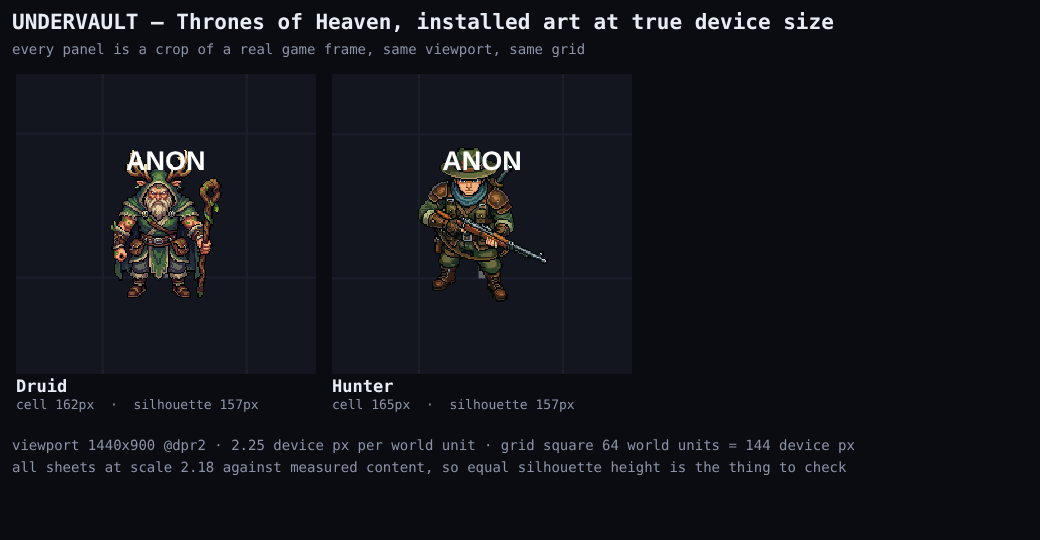
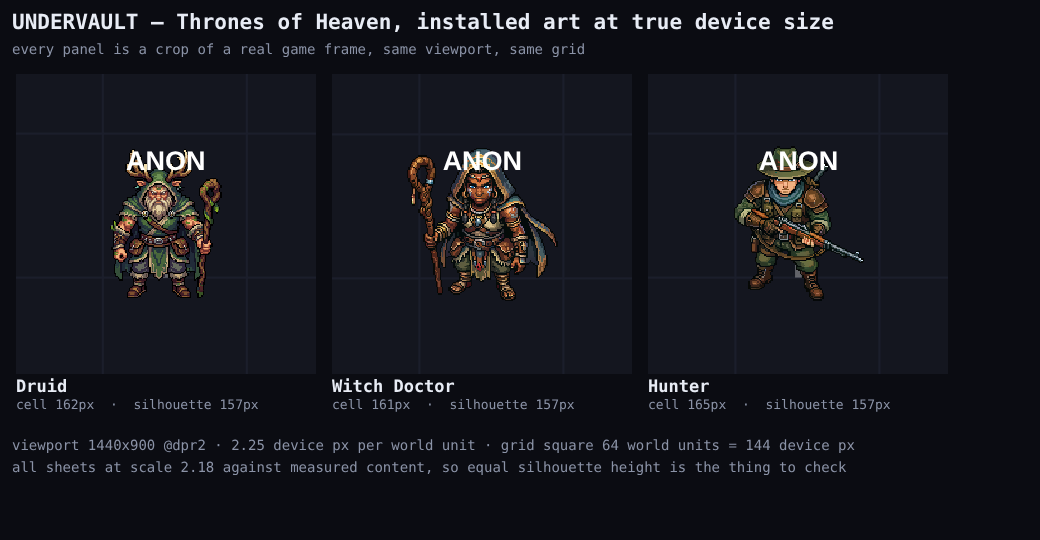
Witch Doctor installed at 2.18 — three characters, one silhouette height
Second of the 13. Eight 256x256 RGBA facings supplied 2026-08-04, committed
verbatim under docs/art-review/batch1/witch_doctor/sources/ at the md5s they
arrived with. Nothing regenerated, resampled or retouched.

  E  1c39421fd06ac441d0f2cec9a8251bc8    W  790afc13d1209968868b52dbd3aaed3b
  SE 200c92cf1c35c5098ee945c213398493    NW ff59d25da83767ea7414c4e4487a1746
  S  53231d21cc8318c1ea80a7ff6734569e    N  a41b4145a6c0d43fb3b32bbb90f0f9bf
  SW 2480a2f16e94c8b43c09cdd23e9f1f5a    NE a639384675c88a82c370cd9d7436224c

assets/sprites/char/toh_witch_doctor.png, 128x1024, directions 8,
content [120,125], scale 2.18. Autocrop 256x256 -> 120x127, no resampling.

SIZE. Measured off the renderer's own drawImage at 1440x900 @dpr2:

  character      scale  fit     content   cell px  silhouette px  vs Druid
  Druid (anchor) 2.18   1.0323  90x124     162.0       157.0        --
  Witch Doctor   2.18   1.0240  120x125    160.7       157.0      +0.00%
  Hunter         2.18   1.0492  101x122    164.7       157.0      -0.00%

Three different content boxes, cell fills from 95.3% to 97.7%, two different
source canvases. The CELLS span 160.7 to 164.7 device px — a 4px spread that
means nothing. The SILHOUETTES are identical to a tenth of a pixel.

PER-FACING SPREAD, worth watching per character. Normalisation uses the tallest
cell, so one unusually tall facing would render the other seven short:

  Druid         122 122 118 124 123 121 118 121   max 124 min 118  4.8%
[…]

diff --git a/docs/art-review/batch1/README.md b/docs/art-review/batch1/README.md
@@ -1,11 +1,12 @@
 # Batch 1 — Thrones of Heaven
 
-Thirteen characters to install. **One is in.**
+Thirteen characters to install. **Two are in.**
 
 | | character | id | status |
 |---|---|---|---|
 | ✓ | Hunter | `char.toh_hunter` | installed |
-| | Blacksmith · Wizard · Necromancer · Mage · Bard · Witch Doctor · Samurai · Monk · Assassin · Priest · Savage · Sundian | | awaiting art |
+| ✓ | Witch Doctor | `char.toh_witch_doctor` | installed |
+| | Blacksmith · Wizard · Necromancer · Mage · Bard · Samurai · Monk · Assassin · Priest · Savage · Sundian | | awaiting art (11) |
 
 The Druid (`char.toh_druid`) is the style anchor and is not part of batch 1 —
 see [`../druid/README.md`](../druid/README.md) and
@@ -24,17 +25,35 @@ artifact of padding.
 
 | character | scale | fit | content | cell px | silhouette px | vs Druid |
 |---|---|---|---|---|---|---|
-| Druid | 2.18 | 1.0323 | 90×124 | 162.0 | **157.0** | — |
-| Hunter | 2.18 | 1.0492 | 101×122 | 164.7 | **157.0** | **+0.00%** |
+| Druid (anchor) | 2.18 | 1.0323 | 90×124 | 162.0 | **157.0** | — |
+| Witch Doctor | 2.18 | 1.0240 | 120×125 | 160.7 | **157.0** | **+0.00%** |
+| Hunter | 2.18 | 1.0492 | 101×122 | 164.7 | **157.0** | **−0.00%** |
 
 Measured off the renderer's own `drawImage` in a real arena. Nothing is more
 than 5% off the Druid.
 
-The two sheets came from **different source canvases** — the Druid at 248×248,
-the Hunter at 256×256 — and fill different fractions of their cell (96.9% and
-95.3%). Their *cells* differ by 2.7 device px. Their silhouettes are identical.
-That is exactly the case content normalization was built for, and it is the
-first time it has been exercised on art it was not derived from.
+Three sheets, three different content boxes (90×124, 120×125, 101×122), cell
+fills from 95.3% to 97.7%, and two different source canvases — the Druid at
+248×248, the batch-1 pair at 256×256. Their **cells** span 160.7 to 164.7 device
+px, a 4px spread that means nothing. Their **silhouettes are identical to a
+tenth of a pixel.** That is what content normalization is for, and it is now
+holding on two characters it was not derived from.
+
+### Per-facing height spread
+
+Normalization uses the tallest cell, so a sheet with one unusually tall facing
+would render its other seven short. Measured:
+
+| character | per-facing heights (E→NE) | max | min | spread |
+|---|---|---|---|---|
+| Druid | 122 122 118 124 123 121 118 121 | 124 | 118 | 4.8% |
+| Hunter | 118 118 120 122 118 116 116 118 | 122 | 116 | 4.9% |
+| Witch Doctor | 125 122 122 124 122 118 122 125 | 125 | 118 | 5.6% |
+
+All three sit in the same 5% band, so no facing is dragging its character
+smaller. Worth re-checking per character: a raised staff or a leaping pose in
+one facing only would show up here as a spread well outside this range, and the
+fix would be art-side rather than a scale tweak.
 
 ## Gates: structure only
 
@@ -78,6 +97,25 @@ Supplied 2026-08-04, eight 256×256 RGBA PNGs.
 
 Assembled to `assets/sprites/char/toh_hunter.png`, 128×1024, `directions: 8`,
 `content: [101, 122]`, `scale: 2.18`. Autocrop 256×256 → 128×122.
+
+### Witch Doctor
+
+Supplied 2026-08-04, eight 256×256 RGBA PNGs.
+
+| facing | md5 | file |
+|---|---|---|
+| E | `1c39421fd06ac441d0f2cec9a8251bc8` | `witch_doctor/sources/east.png` |
+| SE | `200c92cf1c35c5098ee945c213398493` | `witch_doctor/sources/southeast.png` |
+| S | `53231d21cc8318c1ea80a7ff6734569e` | `witch_doctor/sources/south.png` |
+| SW | `2480a2f16e94c8b43c09cdd23e9f1f5a` | `witch_doctor/sources/southwest.png` |
+| W | `790afc13d1209968868b52dbd3aaed3b` | `witch_doctor/sources/west.png` |
+| NW | `ff59d25da83767ea7414c4e4487a1746` | `witch_doctor/sources/northwest.png` |
+| N | `a41b4145a6c0d43fb3b32bbb90f0f9bf` | `witch_doctor/sources/north.png` |
+| NE | `a639384675c88a82c370cd9d7436224c` | `witch_doctor/sources/northeast.png` |
+
+Assembled to `assets/sprites/char/toh_witch_doctor.png`, 128×1024,
+`directions: 8`, `content: [120, 125]`, `scale: 2.18`. Autocrop 256×256 →
+120×127.
 
 ## A tooling bug this batch found
 
